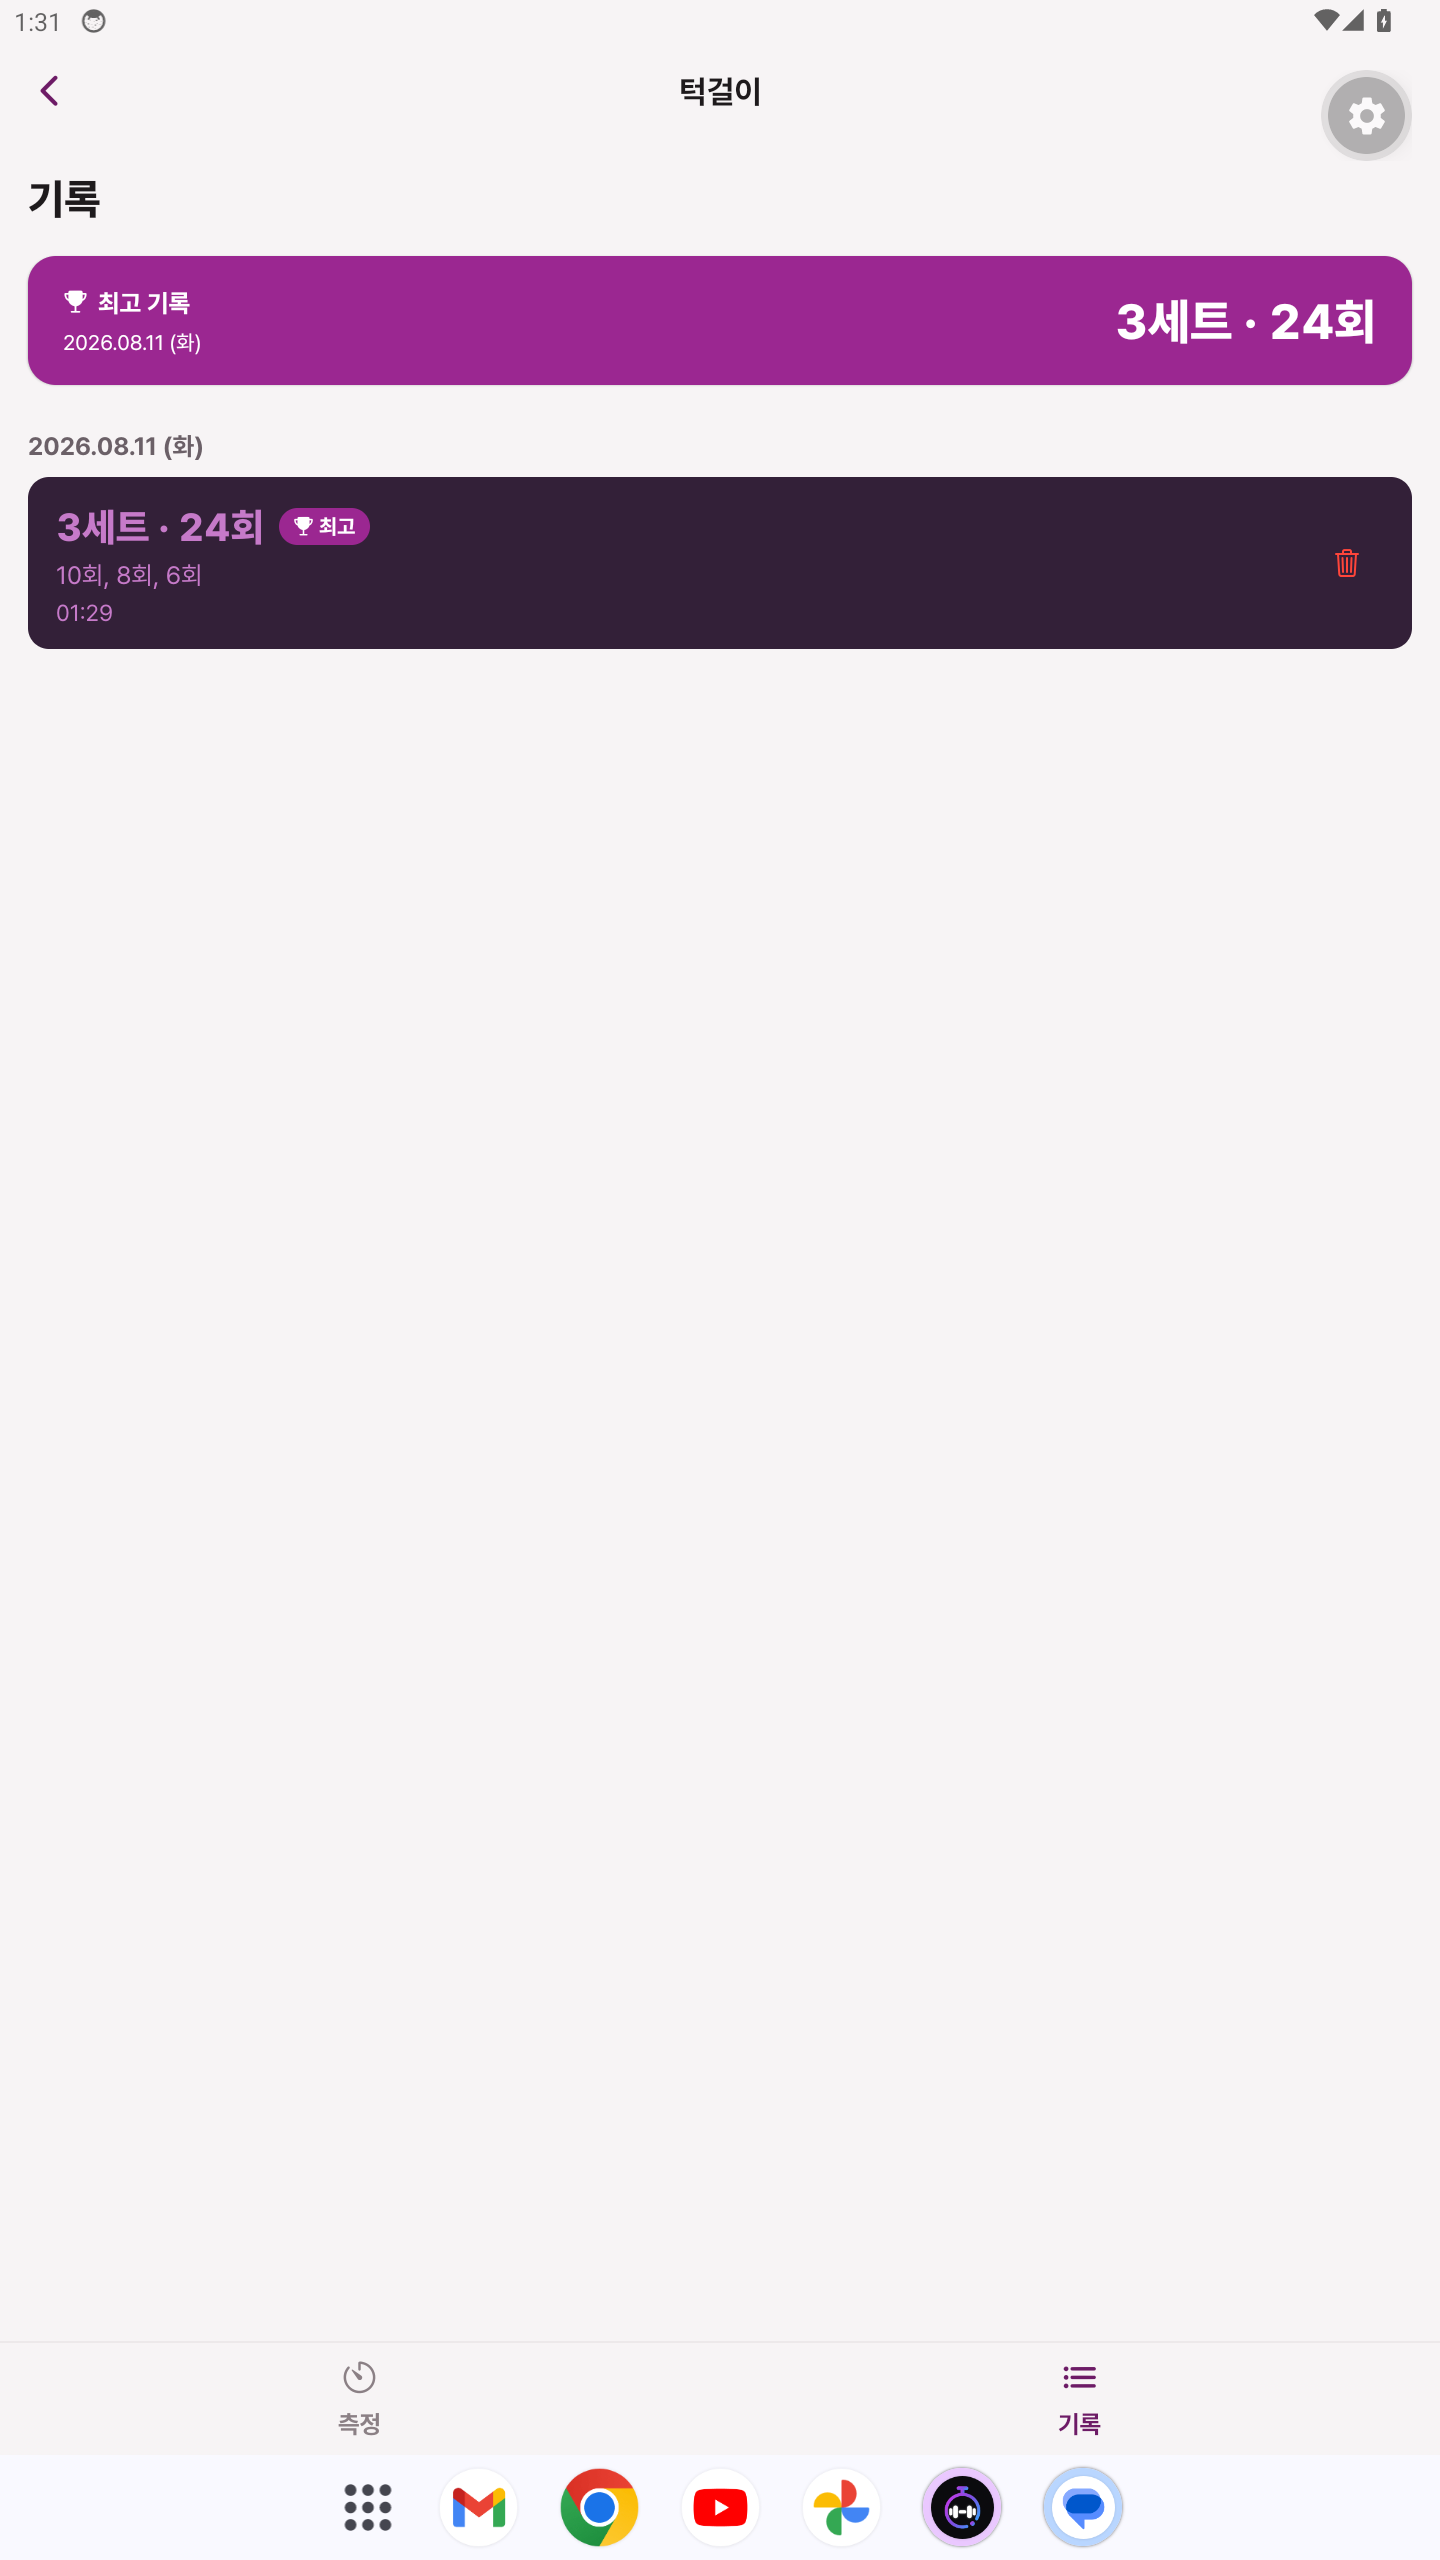
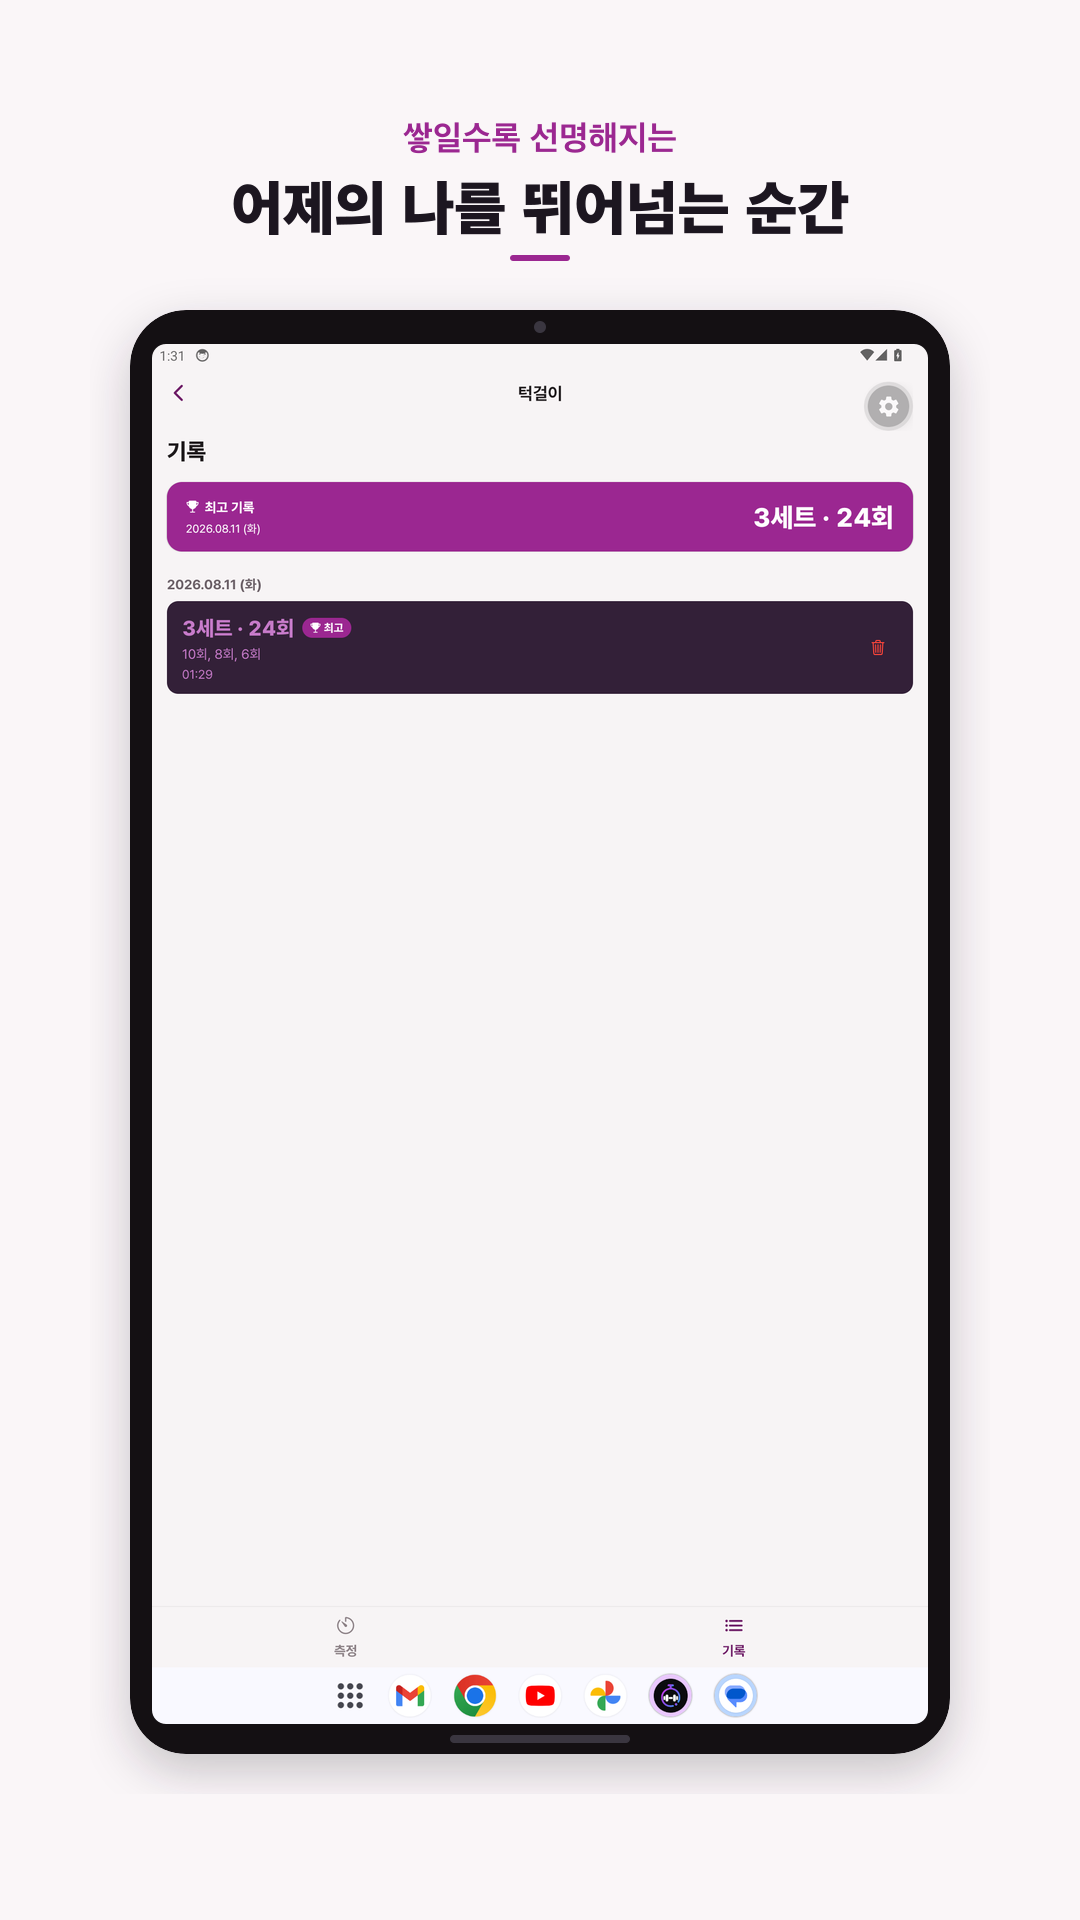
스토어 등록 카피와 스크린샷을 운동 기록 중심으로 개편
- Play 등록 카피(앱 이름/짧은 설명/긴 설명)를 데드행 등 특정 운동 언급 없이
  "직접 추가하는 운동 기록" 중심으로 다시 쓰고, 긴 설명은 요건 안내 불릿 +
  [주요기능]/[선택적접근권한] 표 형식으로 재구성
- 실제 런처 아이콘(그라데이션+글로우 스톱워치·덤벨)을 합성해 피처 그래픽 재생성
  (scripts/make-feature-graphic.js, sharp 사용)
- 휴대전화·태블릿(7in/10in) 스크린샷을 기기 프레임 + 헤드라인 배너가 있는
  마케팅용 이미지로 합성 (scripts/make-store-screenshots.js). 원본 캡처는
  각 기기 폴더의 raw/ 아래로 이동해 재생성용 소스로 보존
- AGENTS.md에 에셋 생성 스크립트 현황(make-icons.js가 실제 아이콘과 어긋난
  상태라는 점 포함) 문서화

Changed region(s): [[0.0, 0.0312, 1.0, 1.0], [0.9167, 0.0, 0.9778, 0.0625], [0.55, 0.9688, 0.6111, 1.0]]

diff --git a/Exercise_Diary/scripts/make-store-screenshots.js b/Exercise_Diary/scripts/make-store-screenshots.js
@@ -1,0 +1,135 @@
+// Play Console 등록용 스크린샷 생성 — 원본 캡처(각 기기 폴더의 raw/)를 둥근 베젤의
+// 기기 프레임 안에 넣고, 그 위에 밝은 배경 + 헤드라인 카피를 얹어 마케팅용
+// 스크린샷으로 합성한다. 휴대전화(노치) / 태블릿(카메라 점) 두 프레임 스타일을 쓴다.
+// 실행: node scripts/make-store-screenshots.js  (→ 각 기기 폴더의 *.png 재생성)
+const fs = require('fs');
+const path = require('path');
+const sharp = require('sharp');
+
+const screenshotsDir = path.join(__dirname, '..', 'store-assets', 'android', 'screenshots');
+
+const CANVAS_W = 1080;
+const CANVAS_H = 1920; // 9:16 — Play 최대 비율(2:1) 안쪽의 표준 스크린샷 크기
+
+const BG = '#FAF6F8'; // light.background에 브랜드 마젠타를 아주 옅게 섞은 톤
+const HEADLINE_COLOR = '#1C1620';
+const SUBTITLE_COLOR = '#9B2791'; // colors.primary — 부제를 브랜드 포인트 컬러로
+const ACCENT_COLOR = '#9B2791';
+const BEZEL_COLOR = '#141013'; // dark.background — 프레임을 앱 다크 테마 색으로
+
+const FRAME_TOP = 310;
+const BEZEL_SIDE = 22;
+const BEZEL_BOTTOM = 30;
+const RADIUS_OUTER = 56;
+
+const shots = [
+  { file: '01-home.png', subtitle: '이름도 아이콘도 자유롭게', headline: '만들지 못하는 운동은 없어요' },
+  { file: '02-measure-reps.png', subtitle: '숫자 하나까지 놓치지 않아요', headline: '세트, 횟수, 무게까지 전부' },
+  { file: '03-measure-timer.png', subtitle: '0.01초까지', headline: '숨 참는 순간까지 정확하게 재요' },
+  { file: '04-records.png', subtitle: '쌓일수록 선명해지는', headline: '어제의 나를 뛰어넘는 순간' },
+];
+
+// 휴대전화는 노치가 있는 세로 프레임, 태블릿은 노치 없이 중앙 카메라 점만 있는
+// 프레임을 쓴다 — 두 기기 모두 같은 배경/헤드라인 스타일을 공유한다.
+const DEVICES = [
+  { dir: '.', frameW: 760, bezelTop: 46, hasNotch: true, radiusInner: 34 },
+  { dir: 'tablet-7in', frameW: 820, bezelTop: 34, hasNotch: false, radiusInner: 14 },
+  { dir: 'tablet-10in', frameW: 820, bezelTop: 34, hasNotch: false, radiusInner: 14 },
+];
+
+function textSvg({ subtitle, headline }) {
+  const cx = CANVAS_W / 2;
+  return Buffer.from(`
+    <svg width="${CANVAS_W}" height="${FRAME_TOP}" xmlns="http://www.w3.org/2000/svg">
+      <text x="${cx}" y="150" text-anchor="middle" font-family="Apple SD Gothic Neo, sans-serif"
+            font-weight="700" font-size="34" fill="${SUBTITLE_COLOR}">${subtitle}</text>
+      <text x="${cx}" y="230" text-anchor="middle" font-family="Apple SD Gothic Neo, sans-serif"
+            font-weight="800" font-size="60" fill="${HEADLINE_COLOR}">${headline}</text>
+      <rect x="${cx - 30}" y="255" width="60" height="6" rx="3" fill="${ACCENT_COLOR}"/>
+    </svg>
+  `);
+}
+
+function frameSvg(device, innerW, innerH, outerH) {
+  const { frameW, bezelTop, hasNotch, radiusInner } = device;
+  // 링(bezel) = 바깥 라운드 사각형 - 안쪽 라운드 사각형(스크린 구멍). mask로 뚫는다.
+  const cam = hasNotch
+    ? `<rect x="${frameW / 2 - 65}" y="${bezelTop / 2 - 8}" width="130" height="16" rx="8" fill="#000000"/>`
+    : `<circle cx="${frameW / 2}" cy="${bezelTop / 2}" r="6" fill="#3a3640"/>`;
+  return Buffer.from(`
+    <svg width="${frameW}" height="${outerH}" xmlns="http://www.w3.org/2000/svg">
+      <defs>
+        <mask id="hole">
+          <rect x="0" y="0" width="${frameW}" height="${outerH}" rx="${RADIUS_OUTER}" fill="#fff"/>
+          <rect x="${BEZEL_SIDE}" y="${bezelTop}" width="${innerW}" height="${innerH}" rx="${radiusInner}" fill="#000"/>
+        </mask>
+      </defs>
+      <rect x="0" y="0" width="${frameW}" height="${outerH}" rx="${RADIUS_OUTER}" fill="${BEZEL_COLOR}" mask="url(#hole)"/>
+      ${cam}
+      <rect x="${frameW / 2 - 90}" y="${outerH - BEZEL_BOTTOM / 2 - 4}" width="180" height="8" rx="4" fill="#3a3640"/>
+    </svg>
+  `);
+}
+
+function shadowSvg(frameW, outerH) {
+  const pad = 40;
+  return Buffer.from(`
+    <svg width="${frameW + pad * 2}" height="${outerH + pad * 2}" xmlns="http://www.w3.org/2000/svg">
+      <defs>
+        <filter id="b" x="-50%" y="-50%" width="200%" height="200%">
+          <feGaussianBlur stdDeviation="24"/>
+        </filter>
+      </defs>
+      <rect x="${pad}" y="${pad + 18}" width="${frameW}" height="${outerH}" rx="${RADIUS_OUTER}"
+            fill="#1C1620" opacity="0.22" filter="url(#b)"/>
+    </svg>
+  `);
+}
+
+async function buildOne(device, { file, subtitle, headline }) {
+  const rawDir = path.join(screenshotsDir, device.dir, 'raw');
+  const outDir = path.join(screenshotsDir, device.dir);
+  const rawPath = path.join(rawDir, file);
+
+  const { frameW, bezelTop } = device;
+  const innerW = frameW - BEZEL_SIDE * 2;
+  const meta = await sharp(rawPath).metadata();
+  const innerH = Math.round((innerW * meta.height) / meta.width);
+  const outerH = bezelTop + innerH + BEZEL_BOTTOM;
+  const frameLeft = Math.round((CANVAS_W - frameW) / 2);
+  const canvasH = Math.max(CANVAS_H, FRAME_TOP + outerH + 60);
+
+  const screenshot = await sharp(rawPath).resize(innerW, innerH).toBuffer();
+  const frame = await sharp(frameSvg(device, innerW, innerH, outerH)).png().toBuffer();
+  const shadow = await sharp(shadowSvg(frameW, outerH)).png().toBuffer();
+  const text = await sharp(textSvg({ subtitle, headline })).png().toBuffer();
+
+  const outPath = path.join(outDir, file);
+  await sharp({
+    create: { width: CANVAS_W, height: canvasH, channels: 3, background: BG },
+  })
+    .composite([
+      { input: shadow, left: frameLeft - 40, top: FRAME_TOP - 40 },
+      { input: screenshot, left: frameLeft + BEZEL_SIDE, top: FRAME_TOP + bezelTop },
+      { input: frame, left: frameLeft, top: FRAME_TOP },
+      { input: text, left: 0, top: 0 },
+    ])
+    .png()
+    .toFile(outPath);
+  console.log('written', path.relative(path.join(__dirname, '..'), outPath), `${CANVAS_W}x${canvasH}`);
+}
+
+async function main() {
+  for (const device of DEVICES) {
+    const rawDir = path.join(screenshotsDir, device.dir, 'raw');
+    if (!fs.existsSync(rawDir)) {
+      throw new Error(`원본 캡처 폴더가 없습니다: ${rawDir}`);
+    }
+    for (const shot of shots) await buildOne(device, shot);
+  }
+}
+
+main().catch((err) => {
+  console.error(err);
+  process.exit(1);
+});

diff --git a/Exercise_Diary/scripts/make-feature-graphic.js b/Exercise_Diary/scripts/make-feature-graphic.js
@@ -1,0 +1,52 @@
+// Play 스토어 피처 그래픽(1024x500) 생성 — 실제 런처 아이콘(퍼플→블루 그라데이션
+// 스톱워치+덤벨, assets/android-icon-foreground.png)을 그대로 가져와 아이콘 배경과
+// 같은 톤의 방사형 그라데이션 위에 크게 배치한다.
+// assets/icon.png을 직접 리사이즈하지 않는 이유: 그 파일은 이미 정사각형 안에
+// 자체 비네트가 구워져 있어 넓은 배너에 놓으면 테두리가 도드라진다. 대신 투명
+// foreground 레이어(모티프만)를 새로 만든 배경 위에 얹어 이음새 없이 이어지게 한다.
+// 실행: node scripts/make-feature-graphic.js
+const path = require('path');
+const sharp = require('sharp');
+
+const width = 1024;
+const height = 500;
+const cx = width / 2;
+const cy = height / 2;
+const motifSize = 440; // foreground 레이어를 이 크기로 확대해 중앙 배치
+
+async function main() {
+  const maxR = Math.round(Math.hypot(cx, cy)) + 20;
+  const bgSvg = Buffer.from(`
+    <svg width="${width}" height="${height}" xmlns="http://www.w3.org/2000/svg">
+      <defs>
+        <radialGradient id="g" cx="${cx}" cy="${cy}" r="${maxR}" gradientUnits="userSpaceOnUse">
+          <stop offset="0%" stop-color="rgb(54,40,79)"/>
+          <stop offset="35%" stop-color="rgb(36,36,45)"/>
+          <stop offset="100%" stop-color="rgb(13,14,16)"/>
+        </radialGradient>
+      </defs>
+      <rect width="${width}" height="${height}" fill="url(#g)"/>
+    </svg>
+  `);
+
+  const background = await sharp(bgSvg).png().toBuffer();
+
+  const motif = await sharp(path.join(__dirname, '..', 'assets', 'android-icon-foreground.png'))
+    .resize(motifSize, motifSize)
+    .toBuffer();
+
+  const outPath = path.join(__dirname, '..', 'store-assets', 'android', 'feature-graphic-1024x500.png');
+  await sharp(background)
+    .composite([{ input: motif, left: Math.round(cx - motifSize / 2), top: Math.round(cy - motifSize / 2) }])
+    .flatten({ background: 'rgb(13,14,16)' })
+    .removeAlpha() // Play 요건: 알파 없는 불투명 PNG
+    .png()
+    .toFile(outPath);
+
+  console.log('written', path.relative(path.join(__dirname, '..'), outPath));
+}
+
+main().catch((err) => {
+  console.error(err);
+  process.exit(1);
+});

diff --git a/Exercise_Diary/AGENTS.md b/Exercise_Diary/AGENTS.md
@@ -39,12 +39,14 @@
 - 타이머는 `setInterval` 누적이 아니라 시작 시각(`Date.now()`) 기준 경과 시간으로 계산한다 (백그라운드 전환·프레임 드랍 시 오차 방지)
 - 새 UI 텍스트를 추가하면 `src/lib/i18n/locales/`의 4개 언어(ko/en/ja/zh) 파일을 모두 갱신한다
 - 테마 팔레트는 자주 바뀌므로 색상 관련 작업 전에 `src/theme.ts`, `src/lib/themePresets.ts`를 직접 확인한다 — 기억에 의존하지 않는다
-- 생성형 에셋(앱 아이콘, 효과음, 스토어용 아이콘/피처 그래픽)은 `scripts/`의 생성 스크립트로 만든다 — 수정할 때 스크립트를 고쳐 재생성 (`npm run assets:icons`, `npm run assets:bell`, `npm run assets:silence`)
+- 생성형 에셋(앱 아이콘, 효과음, 스토어용 아이콘/피처 그래픽/스크린샷)은 `scripts/`의 생성 스크립트로 만든다 — 수정할 때 스크립트를 고쳐 재생성 (`npm run assets:icons`, `npm run assets:feature-graphic`, `npm run assets:store-screenshots`, `npm run assets:bell`, `npm run assets:silence`)
+- `scripts/make-icons.js`는 실제 런처 아이콘(`assets/icon.png` 등)과 더 이상 같은 디자인을 생성하지 않는다 — 아이콘은 2026-08-09에 그라데이션+글로우 디자인으로 교체되며 스크립트 없이 이미지 파일만 직접 갈아 끼워졌다. 아이콘 관련 작업 전엔 스크립트 출력이 실제 에셋과 일치하는지 먼저 확인할 것. 피처 그래픽(`npm run assets:feature-graphic`)은 `scripts/make-feature-graphic.js`가 `sharp`로 실제 아이콘의 foreground 레이어를 합성해 만들며, 이 스크립트는 별개로 최신 상태다.
+- Play Console용 스크린샷(휴대전화 + 태블릿 7·10인치)은 각 기기 폴더의 `raw/`(`store-assets/android/screenshots/raw/`, `.../tablet-7in/raw/`, `.../tablet-10in/raw/`) 원본 캡처를 `scripts/make-store-screenshots.js`(sharp)가 둥근 베젤 기기 프레임(휴대전화=노치, 태블릿=카메라 점) 안에 넣고 밝은 배경(`#FAF6F8`) + 브랜드 마젠타 헤드라인 카피를 얹어 각 기기 폴더에 재생성한다(`npm run assets:store-screenshots`). 헤드라인 카피는 스크립트 안 `shots` 배열, 기기별 프레임 크기는 `DEVICES` 배열에서 관리한다. 원본 캡처를 새로 찍었으면 해당 기기의 `raw/`에 같은 파일명으로 교체한 뒤 스크립트를 다시 돌린다.
 - 커밋 메시지는 한국어로 작성한다
 
 ## 문서 위치
 
 - `docs/specs/` — 기능별 요구사항 (무엇을, 왜)
 - `docs/design/` — 기능별 설계 (어떻게)
-- `docs/guides/` — 스토어 배포·마켓 등록 등 운영 가이드 (예: `앱스토어 배포 가이드.html`, `play-store-listing-copy.md`)
+- `docs/guides/` — 스토어 배포·마켓 등록 등 운영 가이드. 배포 가이드는 플랫폼별로 분리되어 있다 (`구글플레이 배포 가이드.html`, `앱스토어 배포 가이드.html`, `play-store-listing-copy.md`)
 - `docs/privacy-policy.html` — 개인정보처리방침 (GitHub Pages `gh-pages` 브랜치로 배포됨)
